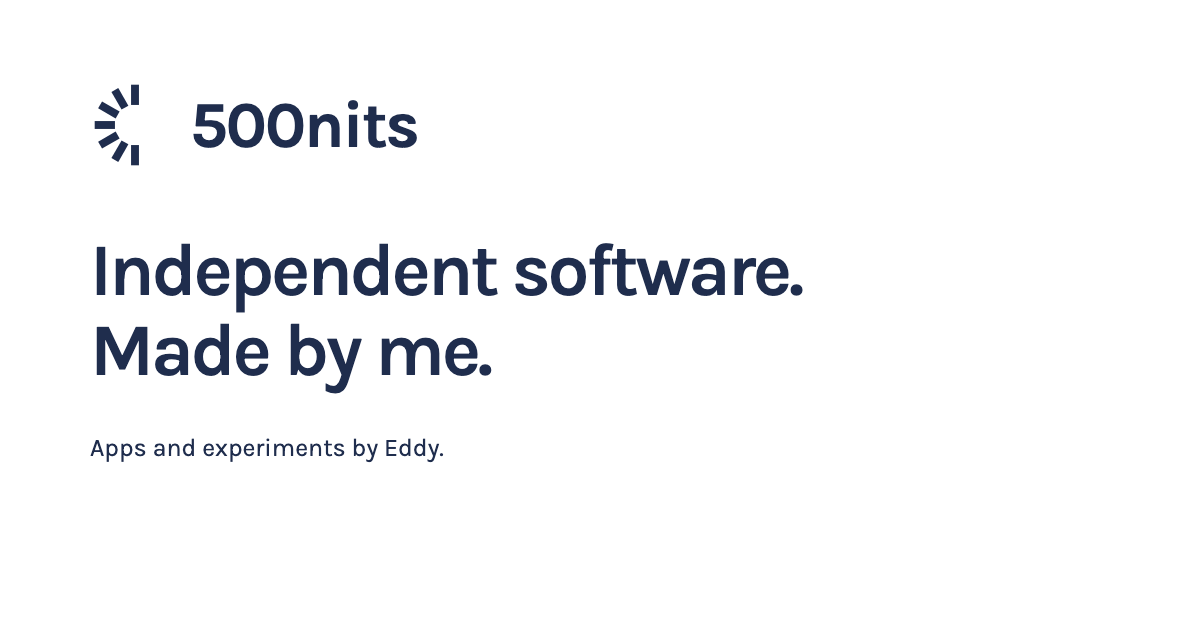
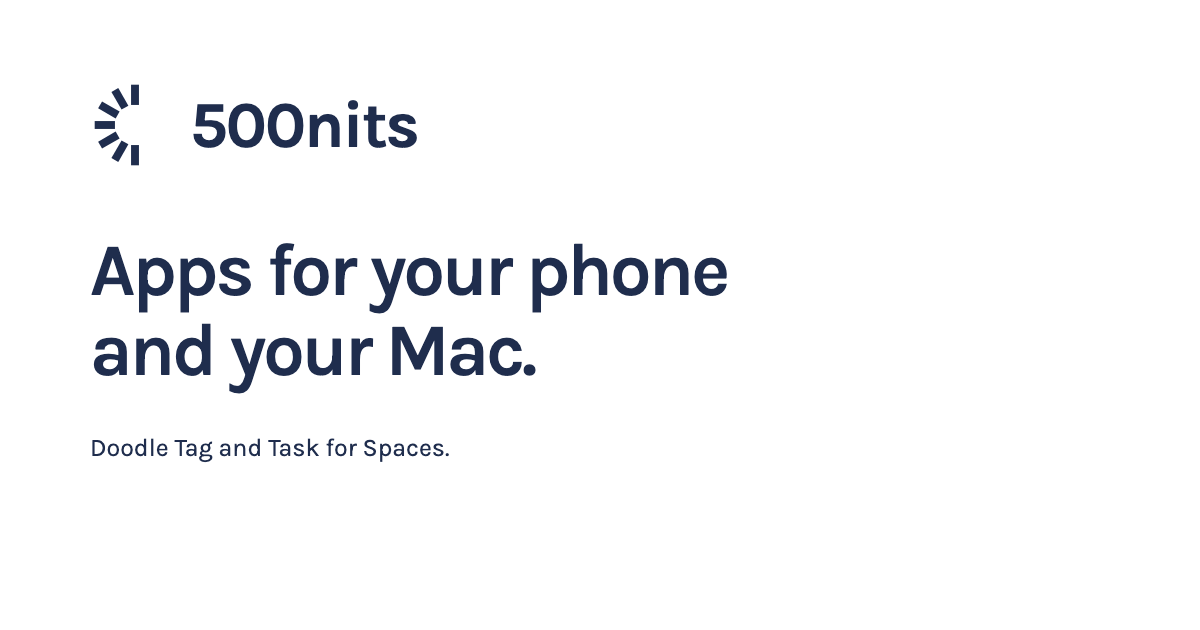
use plain English in 500nits homepage copy

Changed region(s): [[0.0617, 0.3921, 0.6783, 0.6333], [0.0617, 0.6937, 0.37, 0.7238]]

diff --git a/index.html b/index.html
@@ -4,7 +4,7 @@
     <meta charset="utf-8" />
     <meta name="viewport" content="width=device-width, initial-scale=1" />
     <title>500nits — independent software by Eddy</title>
-    <meta name="description" content="I'm Eddy. I design, build, and run 500nits, my independent software label. Explore Doodle Tag, Task for Spaces, and get occasional product updates." />
+    <meta name="description" content="I'm Eddy, the developer of Doodle Tag and Task for Spaces. 500nits is where I publish my apps. Find an app, get updates, or contact me for help." />
     <meta name="robots" content="index,follow" />
     <meta name="theme-color" content="#1f2d4d" />
     <link rel="canonical" href="https://500nits.com/" />
@@ -12,12 +12,12 @@
     <link rel="icon" type="image/svg+xml" href="/favicon.svg" />
     <meta property="og:type" content="website" />
     <meta property="og:title" content="500nits — independent software by Eddy" />
-    <meta property="og:description" content="One person, from the first idea to the next update. Apps and experiments by Eddy." />
+    <meta property="og:description" content="I'm Eddy, the developer of Doodle Tag and Task for Spaces. 500nits is where I publish my apps." />
     <meta property="og:url" content="https://500nits.com/" />
     <meta property="og:image" content="https://500nits.com/assets/500nits-social.png" />
     <meta property="og:image:width" content="1200" />
     <meta property="og:image:height" content="630" />
-    <meta property="og:image:alt" content="500nits. Independent software by Eddy, with the navy 500nits mark on white." />
+    <meta property="og:image:alt" content="500nits. Apps for your phone and your Mac. Doodle Tag and Task for Spaces." />
     <meta name="twitter:card" content="summary_large_image" />
     <link rel="preload" href="/assets/fonts/karla-latin.woff2" as="font" type="font/woff2" crossorigin />
     <link rel="stylesheet" href="/hub.css" />
@@ -54,9 +54,9 @@
 
       <main id="main">
         <section class="intro" aria-labelledby="intro-title">
-          <h1 id="intro-title">Independent software.<br />Made by me.</h1>
+          <h1 id="intro-title">Apps for your phone<br />and your Mac.</h1>
           <div class="intro-note">
-            <p>I'm Eddy. I design, build, and run the apps here at 500nits. One person, from the first idea to the next update.</p>
+            <p>I'm Eddy, the developer of Doodle Tag and Task for Spaces. 500nits is where I publish my apps.</p>
             <a href="mailto:apps@500nits.com">Say hello <svg class="arrow" viewBox="0 0 24 24" aria-hidden="true"><path d="M5 12h14m-6-6 6 6-6 6" /></svg></a>
           </div>
         </section>
@@ -129,8 +129,8 @@
 
         <section class="maker" aria-labelledby="maker-title">
           <div>
-            <h2 id="maker-title">There's a person behind it.</h2>
-            <p>I make the software, answer the emails, and keep things running. If you have a question or something to share, you'll reach me directly.</p>
+            <h2 id="maker-title">Get in touch</h2>
+            <p>Email me if you need help with an app or want to report a bug.</p>
           </div>
           <div class="maker-links">
             <a href="mailto:apps@500nits.com">apps@500nits.com <svg class="arrow" viewBox="0 0 24 24" aria-hidden="true"><path d="M5 12h14m-6-6 6 6-6 6" /></svg></a>
